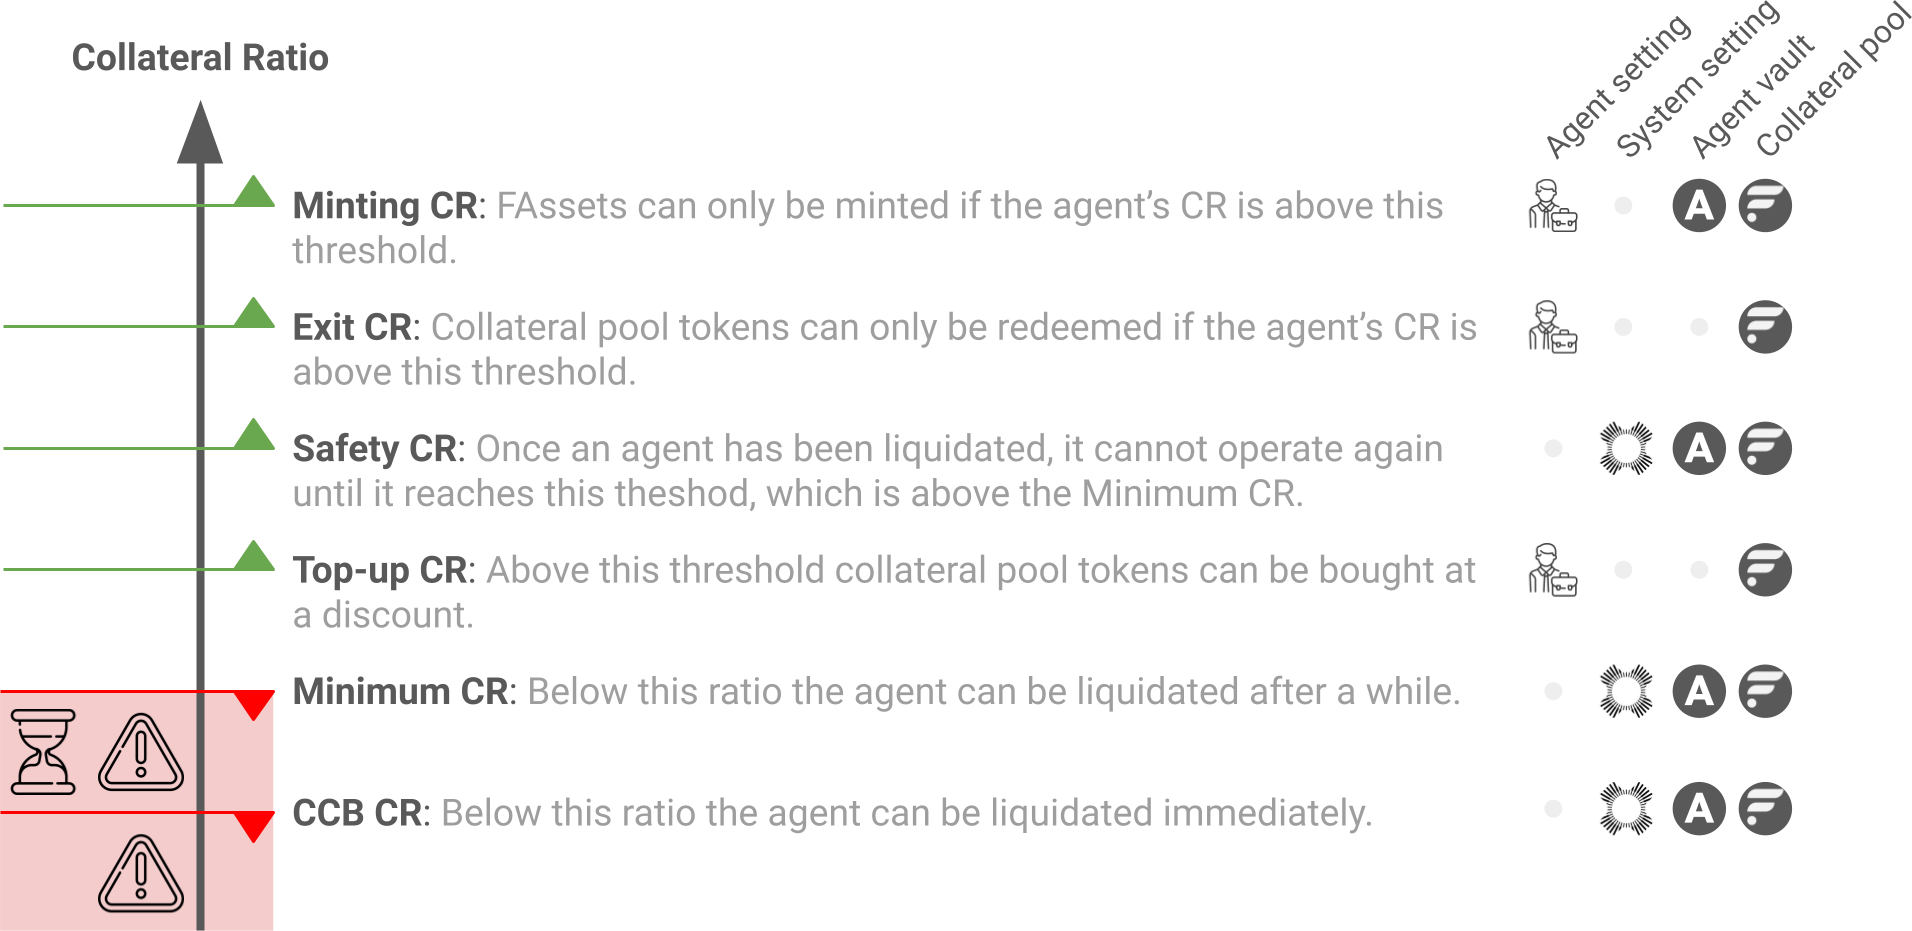
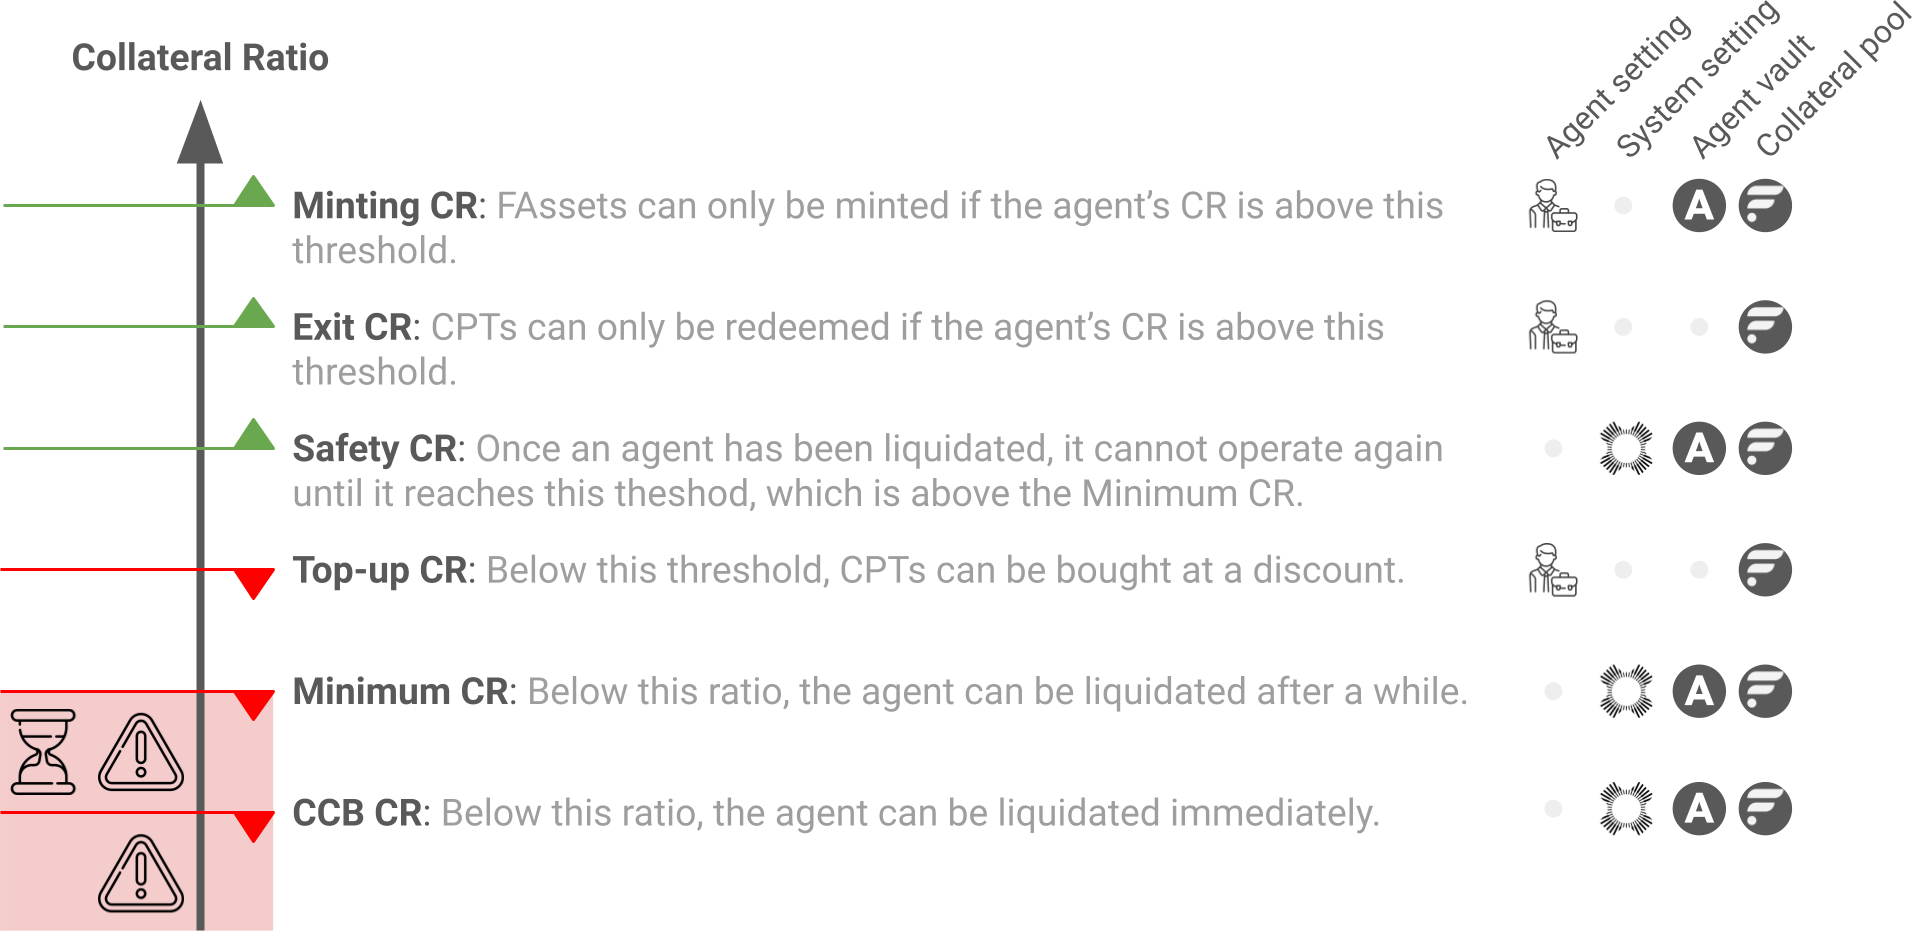
FLR-787: Fixing desc and diagram for top-up CR (#309)

diff --git a/docs/tech/fassets/collateral.md b/docs/tech/fassets/collateral.md
@@ -366,7 +366,7 @@ The following thresholds are set by each agent according to their own preference
     If the pool CR is already below the exit CR, redemption cannot occur.
     The exit CR is for the collateral pool only.
 
-* **Top-up CR**: To incentivize healthy collateral pools, when the pool CR reaches the top-up CR, anyone can add collateral to the pool and receive [CPTs](#pool-collateral) at a reduced price.
+* **Top-up CR**: To incentivize healthy collateral pools, if the pool CR falls below the top-up CR, anyone can add collateral to the pool and receive [CPTs](#pool-collateral) at a reduced price.
     [This top-up mechanism](#top-up) decreases the likelihood of liquidations because of a low amount of pool collateral.
 
 ## Redemption of CPTs
